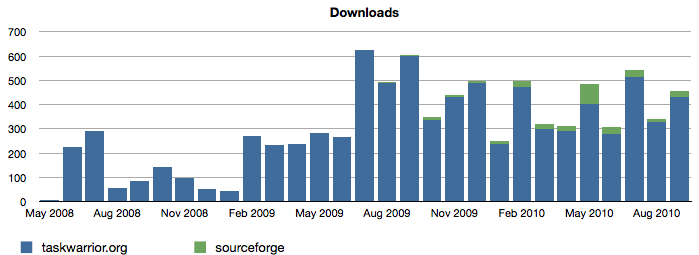
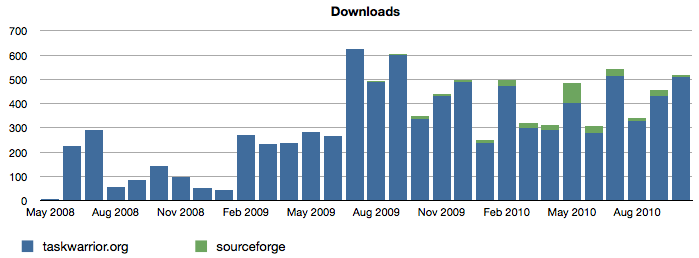
Updated for October 2010

diff --git a/public_html/stats/index.html b/public_html/stats/index.html
@@ -21,7 +21,7 @@
       <br />
       Visits to taskwarrior.org and tasktools.org.
 
-      The recent uptrend due solely to the Dirk Deimeke articles and the new
+      The recent uptrend due to the Dirk Deimeke articles and the new
       Wikipedia page.
       <br />
       <br />
@@ -33,7 +33,9 @@
       <br />
       Note that only downloads directly from taskwarrior.org and sourceforge.com
       are recorded.  The number of downloads from freshmeat.net and many others
-      are unknown.
+      are unknown.  The reduction in SourceForge downloads may be due to the
+      inclusion of taskwarrior packages into all major Linux distributions.
+      This probably applies to source downloads in general.
       <br />
       <br />
       <br />
@@ -42,7 +44,7 @@
       <img src="commits.png" />
       <br />
       <br />
-      Development began in 2006, but used Subversion and that history was not
+      Development began in 2006, but used Subversion. That history was not
       brought into git.  The large spike represents 1.8.0, which was essentially
       a complete rewrite.
       <br />
@@ -75,6 +77,9 @@
       The fix rate closely matches the find rate, which means that we are very
       responsive to bugs, and the number of outstanding bugs remains fairly
       constant.
+    </p>
+    <p>
+      The recent upturn is due to one person.
       <br />
       <br />
       <br />
@@ -92,6 +97,9 @@
       to spot) and a lack of advanced features (which may not occur to people).
       An example of this is the recent feedback on the proposed burndown chart,
       which stated "did not realize that I would like/want this until I saw it".
+    </p>
+    <p>
+      The recent upturn is due to one person.
       <br />
       <br />
       <br />
@@ -103,6 +111,9 @@
       The http://tasktools.org/latest url responds with the version number of
       the current stable version of task.  It is intended for use in auto-update
       scripts.
+    </p>
+    <p>
+      Someone is using it.
       <br />
       <br />
       <br />
@@ -122,6 +133,9 @@
       <img src="os.png" />
       <br />
       <br />
+      This chart now shows absolute numbers instead of percentages, and the
+      result is more telling.  It looks like all the new visitors are running
+      Linux.
       <br />
       <br />
       <br />
